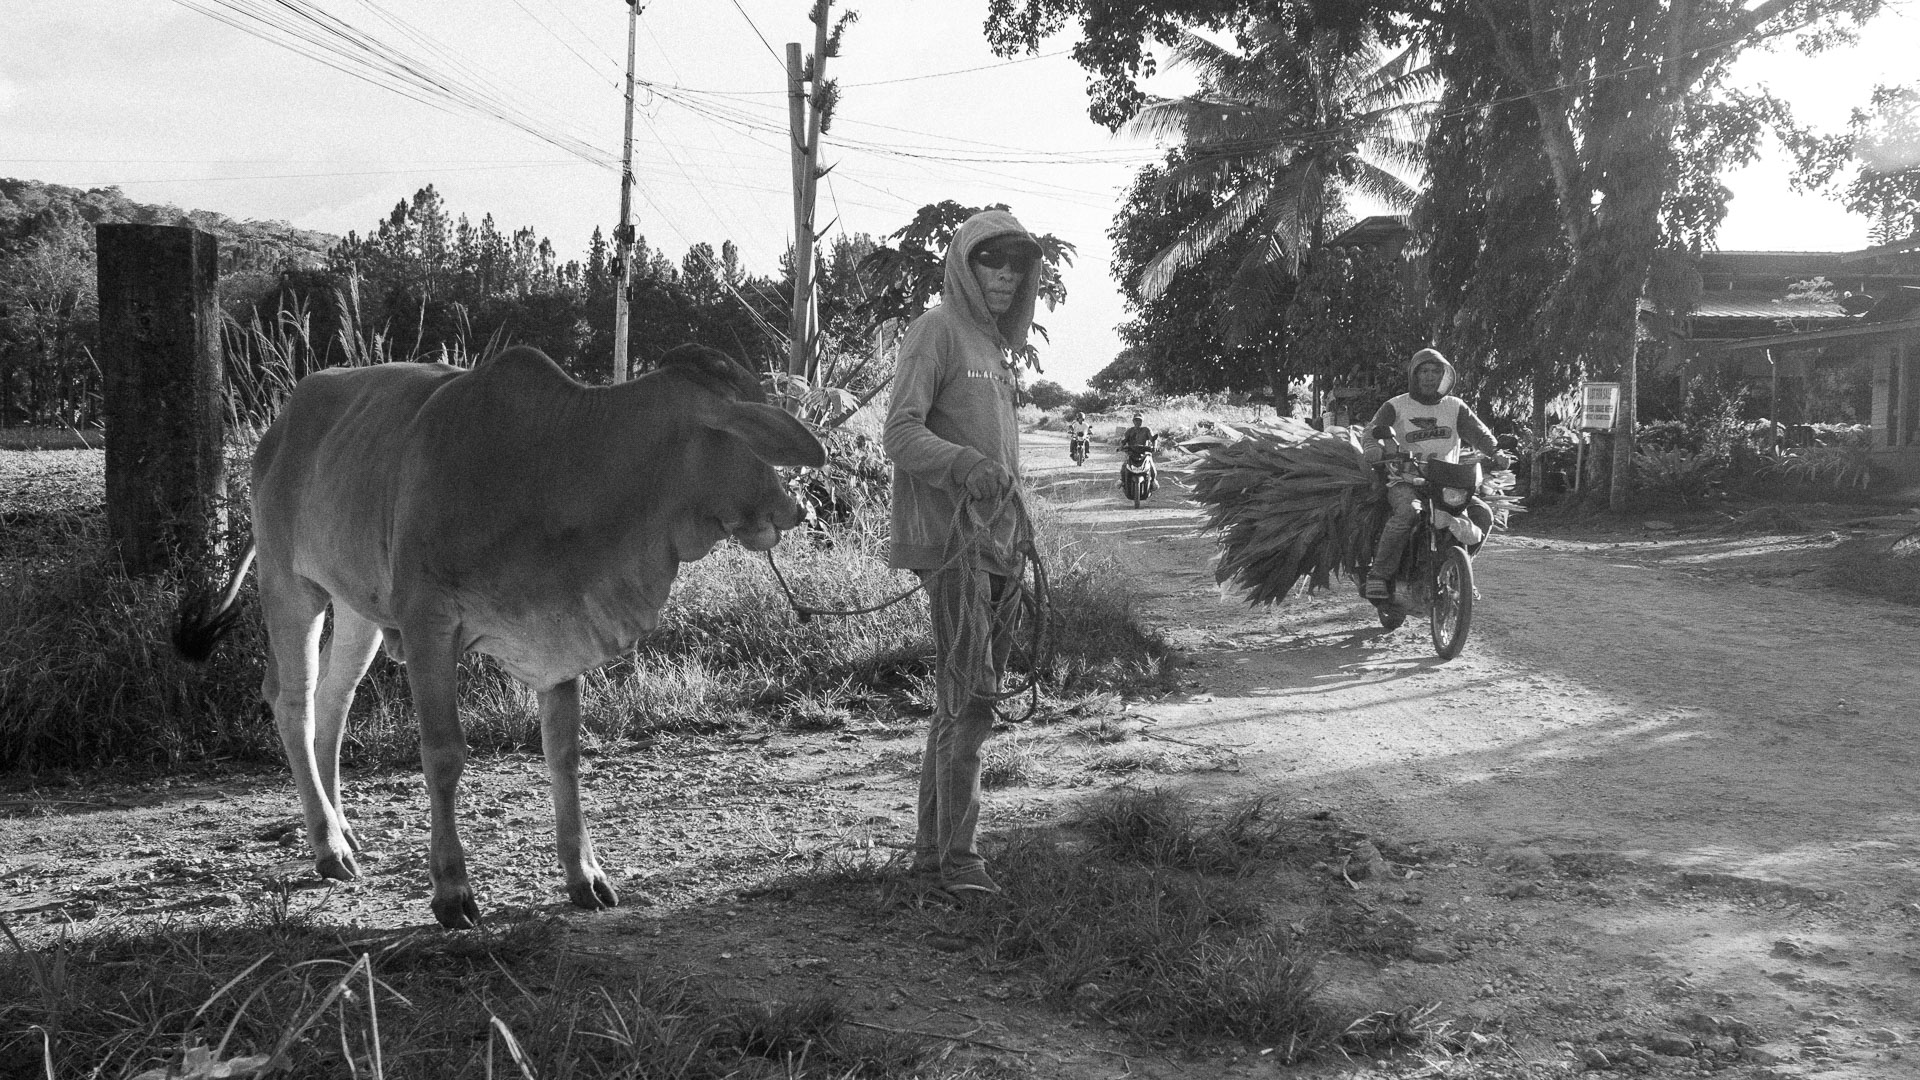
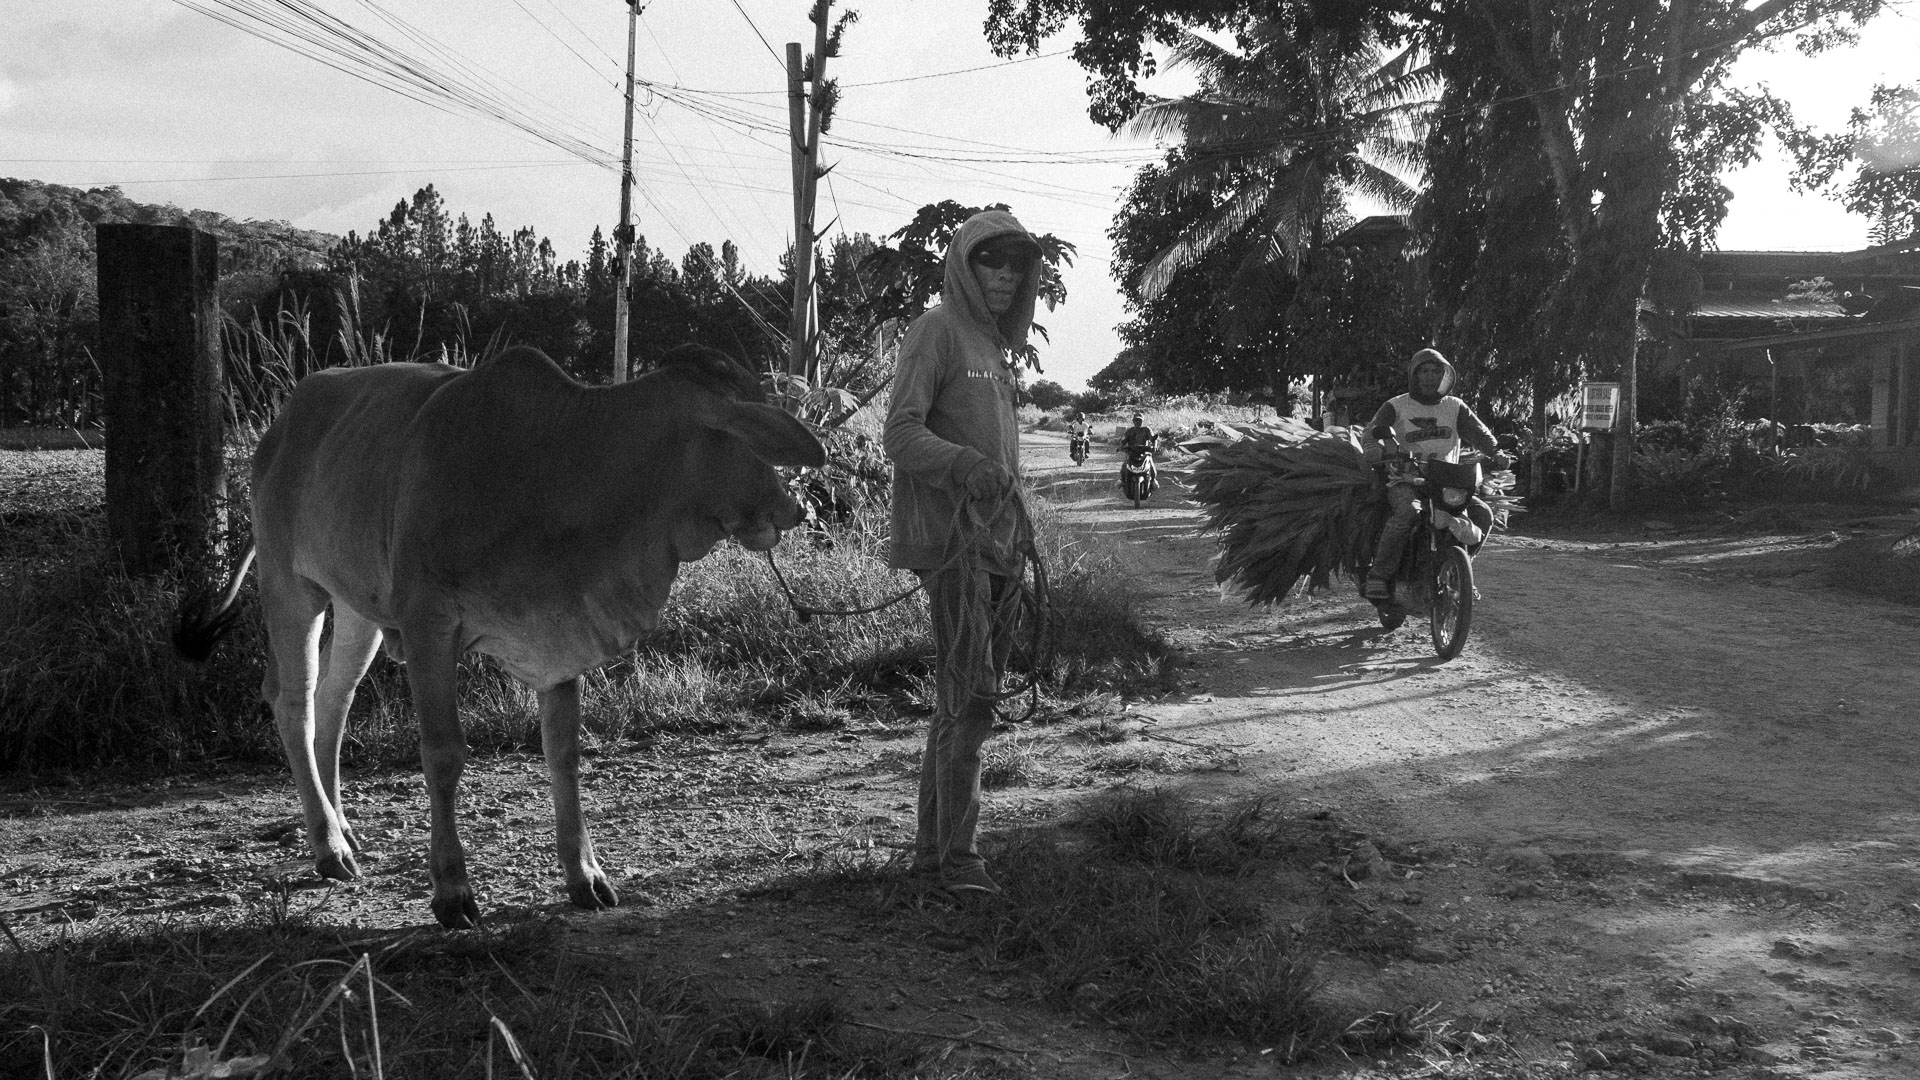
update image #5 and quality for hero and full-width author imgs

diff --git a/app/components/AuthorFullWidth.tsx b/app/components/AuthorFullWidth.tsx
@@ -22,10 +22,13 @@ export default function AuthorFullWidth({
   return (
     <div
       ref={containerRef}
-      className="relative h-[200vh] w-full my-20 bg-theme-black"
+      className="relative h-[200vh] w-full my-20 bg-offblack"
     >
-      <div className="sticky top-0 h-screen w-full overflow-hidden flex items-center justify-center">
+      <div className="sticky top-0 h-screen w-full overflow-hidden flex items-center justify-center bg-linear-to-b from-offblack via-theme-black to-offblack">
         <div className="relative w-full max-w-[177.78vh] aspect-video mx-auto">
+          <div className="pointer-events-none absolute bottom-full inset-x-[-50vw] h-[50vh] bg-linear-to-b from-offblack via-neutral-900 to-theme-black z-0" />
+          <div className="pointer-events-none absolute top-full inset-x-[-50vw] h-[50vh] bg-linear-to-t from-offblack via-neutral-900 to-theme-black z-0" />
+
           <Image
             src={src}
             alt={caption || "Author perspective"}
@@ -37,7 +40,7 @@ export default function AuthorFullWidth({
 
           {caption && (
             <>
-              <div className="hidden md:block pointer-events-none absolute inset-x-0 bottom-0 h-1/3 bg-linear-to-t from-black/95 via-black/50 to-transparent z-20" />
+              <div className="hidden md:block pointer-events-none absolute inset-x-0 bottom-0 h-1/3 bg-linear-to-t from-black/90 via-black/40 to-transparent z-20" />
 
               <div className="pointer-events-none absolute top-full inset-x-6 mt-3 text-center md:top-auto md:right-auto md:bottom-10 md:left-10 md:mt-0 md:text-left z-30 max-w-3xl">
                 <p className="font-libre text-sm sm:text-base md:text-lg lg:text-[22px] italic text-theme-white drop-shadow-md leading-relaxed">

diff --git a/app/components/Hero.tsx b/app/components/Hero.tsx
@@ -22,10 +22,15 @@ export default function Hero({ src, title, subtitle }: HeroProps) {
   return (
     <section
       ref={containerRef}
-      className="relative h-[250vh] w-full bg-theme-black"
+      className="relative h-[250vh] w-full bg-offblack"
     >
-      <div className="sticky top-0 h-screen w-full overflow-hidden flex items-center justify-center">
+      <div className="sticky top-0 h-screen w-full overflow-hidden flex items-center justify-center bg-linear-to-b from-offblack via-theme-black to-offblack">
+        {/* <Navbar isFixed={false} /> */}
+
         <div className="relative w-full max-w-[177.78vh] aspect-video mx-auto">
+          <div className="pointer-events-none absolute bottom-full inset-x-[-50vw] h-[50vh] bg-linear-to-b from-offblack via-neutral-900 to-theme-black z-0" />
+          <div className="pointer-events-none absolute top-full inset-x-[-50vw] h-[50vh] bg-linear-to-t from-offblack via-neutral-900 to-theme-black z-0" />
+
           <motion.div
             initial={{ opacity: 0 }}
             animate={{ opacity: 1 }}
@@ -45,7 +50,7 @@ export default function Hero({ src, title, subtitle }: HeroProps) {
 
           <motion.div
             style={{ opacity: fadeOpacity }}
-            className="hidden md:block pointer-events-none absolute inset-x-0 bottom-0 h-1/2 bg-linear-to-t from-black/90 via-black/50 to-transparent z-10"
+            className="hidden md:block pointer-events-none absolute inset-x-0 bottom-0 h-2/3 bg-linear-to-t from-black/90 via-black/50 to-transparent z-10"
           />
 
           <motion.h1
